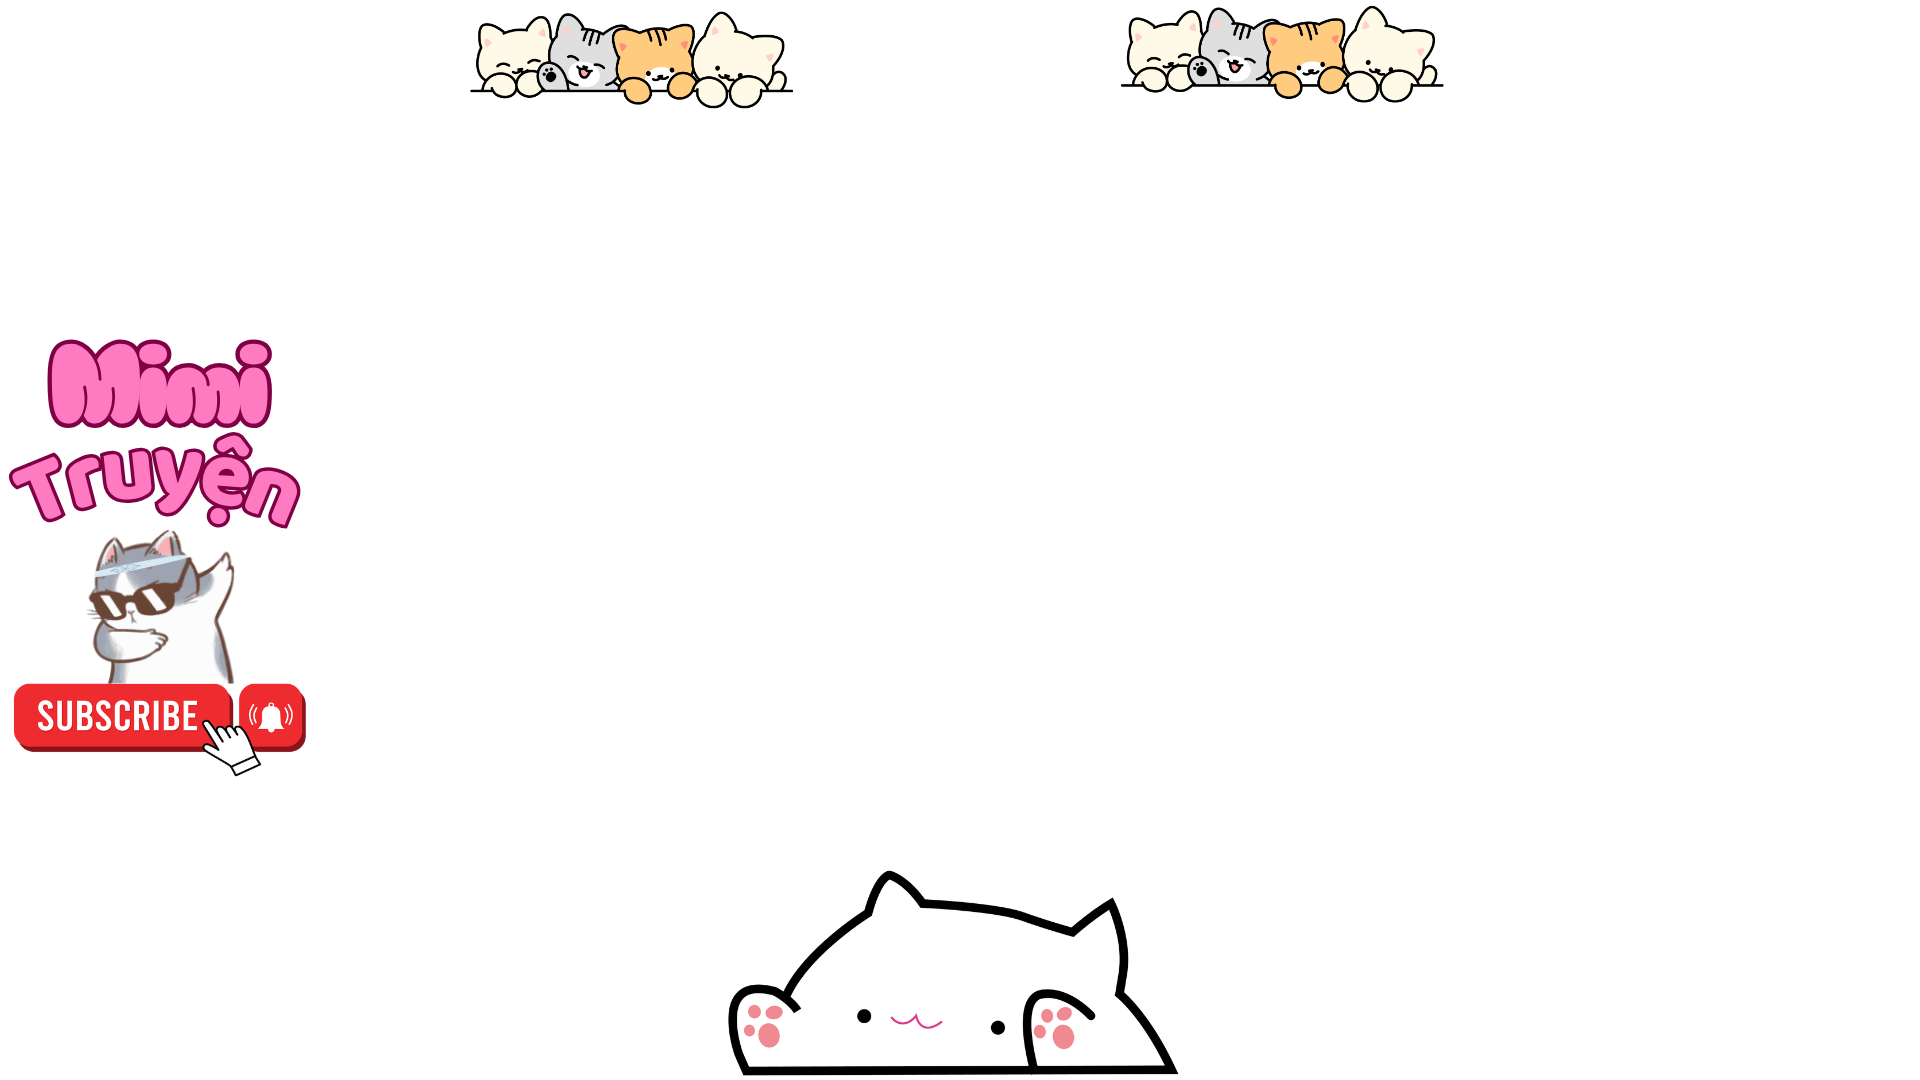
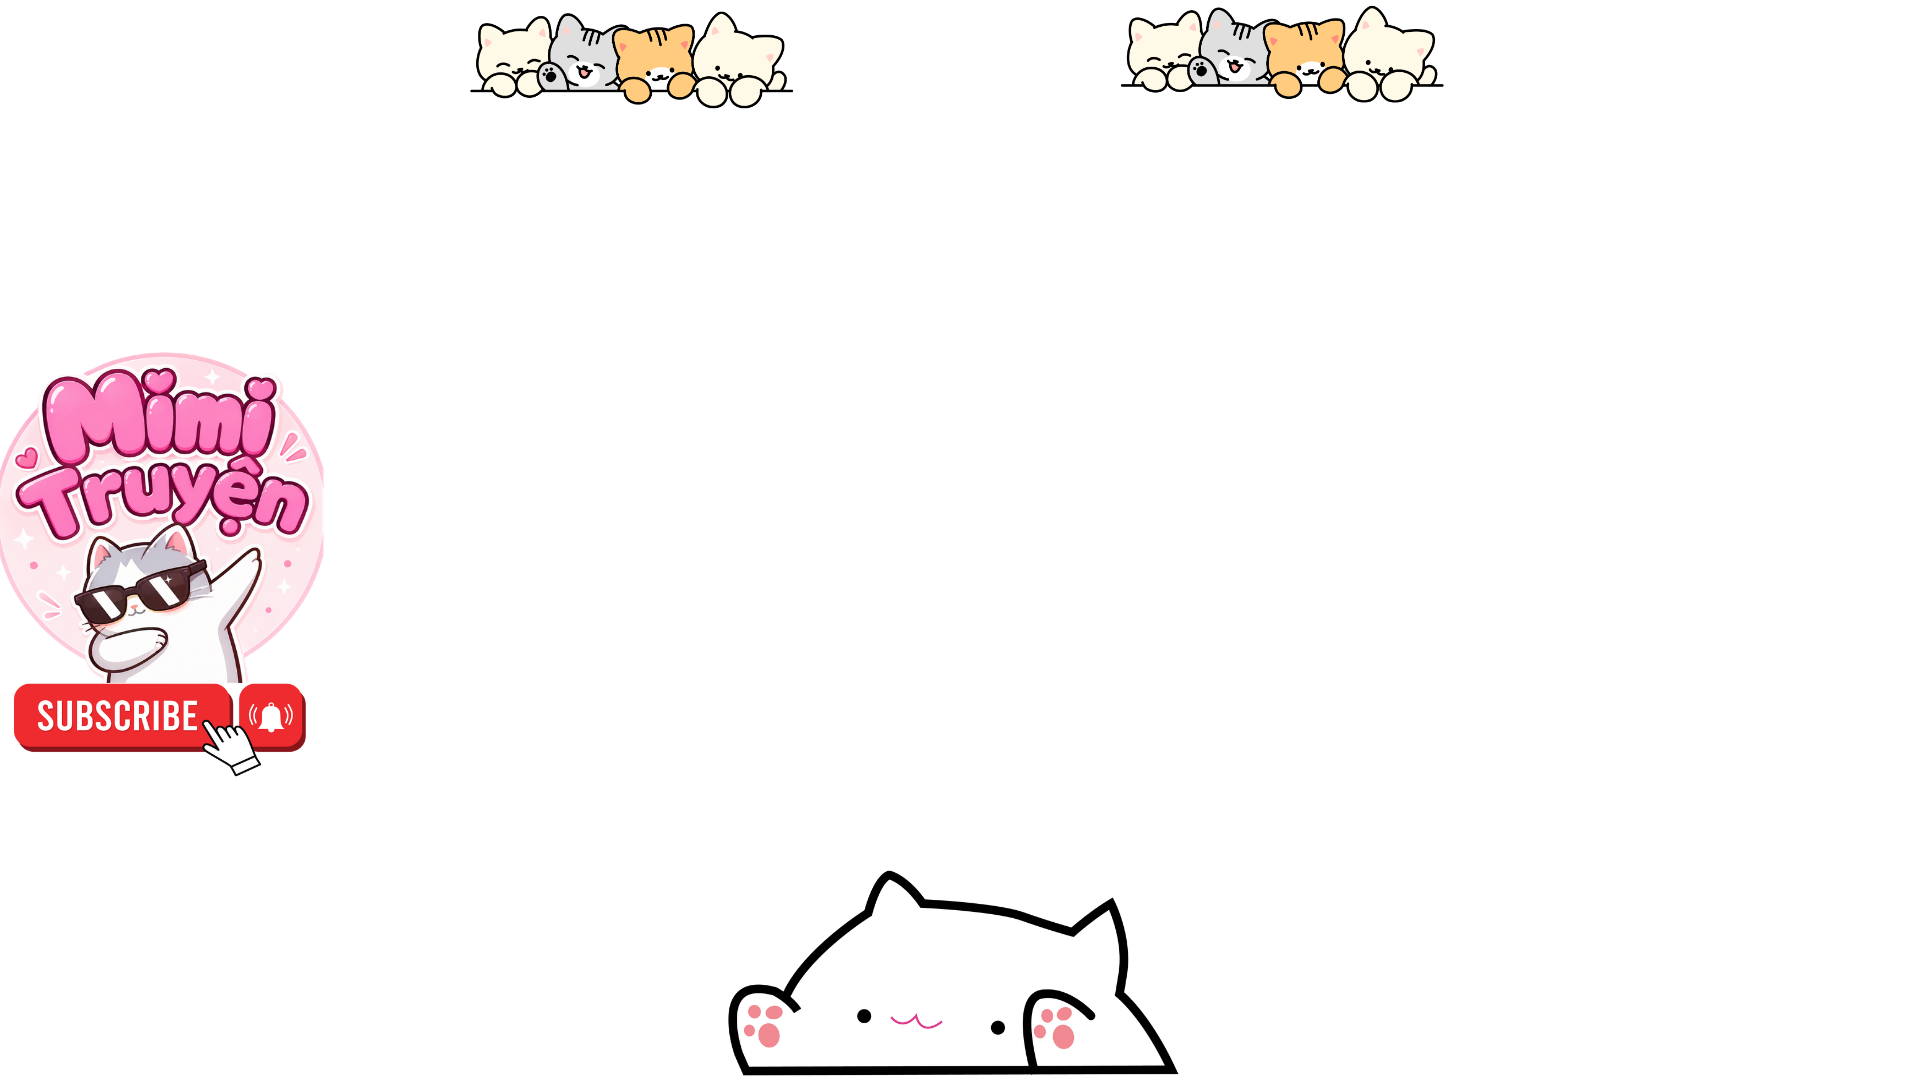
Enhance bubble video script: adjust spawn rate, max bubbles, and speed parameters for improved visual effects

Changed region(s): [[0.0, 0.3056, 0.1875, 0.6417]]

diff --git a/myvoice/scripts/bubble_video.py b/myvoice/scripts/bubble_video.py
@@ -46,14 +46,15 @@ INPUT  = "D:/Python/omnivoice/OmniVoice/myvoice/videongang/一起来邂逅宫崎
 OUTPUT = "D:/Python/omnivoice/OmniVoice/myvoice/scripts/bubbles_output.mp4"
 
 # — Render theo từng clip: TRỐNG → ĐẦY → TAN —
-SPAWN_RATE       = 1.5       # số bong bóng sinh ra mỗi giây (đầu clip trống, sinh dần cho đầy)
-MAX_BUBBLES      = 11        # số bong bóng tối đa hiện cùng lúc (mật độ; nhỏ = thưa)
+CLIP_SECONDS     = 30.0      # độ dài video kết quả (giây); None = lấy trọn độ dài video gốc
+SPAWN_RATE       = 2.2       # số bong bóng sinh ra mỗi giây (đầu clip trống, sinh dần cho đầy)
+MAX_BUBBLES      = 16        # số bong bóng tối đa hiện cùng lúc (mật độ; nhỏ = thưa)
 FADE_OUT_SEC     = 3.0       # vài giây CUỐI clip: cả lớp bong bóng mờ tan dần
 COLOR_ROT_SPEED  = 0.05      # tốc độ xoay màu cầu vồng (vòng/giây)
 
 # — Đường đi: bay THẲNG theo đường xéo trái-dưới → phải-trên (không ziczac) —
-SLOW_SPEED       = 40.0      # tốc độ bay (dọc) của loại CHẬM (px/giây)
-FAST_SPEED       = 95.0      # tốc độ bay (dọc) của loại NHANH (px/giây)
+SLOW_SPEED       = 100.0      # tốc độ bay (dọc) của loại CHẬM (px/giây) — +20%
+FAST_SPEED       = 228.0     # tốc độ bay (dọc) của loại NHANH (px/giây) — +20%
 FAST_FRAC        = 0.40      # tỉ lệ bong bóng loại NHANH (còn lại là chậm)
 DRIFT_RATIO      = 0.55      # độ "xéo": tỉ lệ ngang/dọc (>0 = lệch sang PHẢI khi bay lên)
 